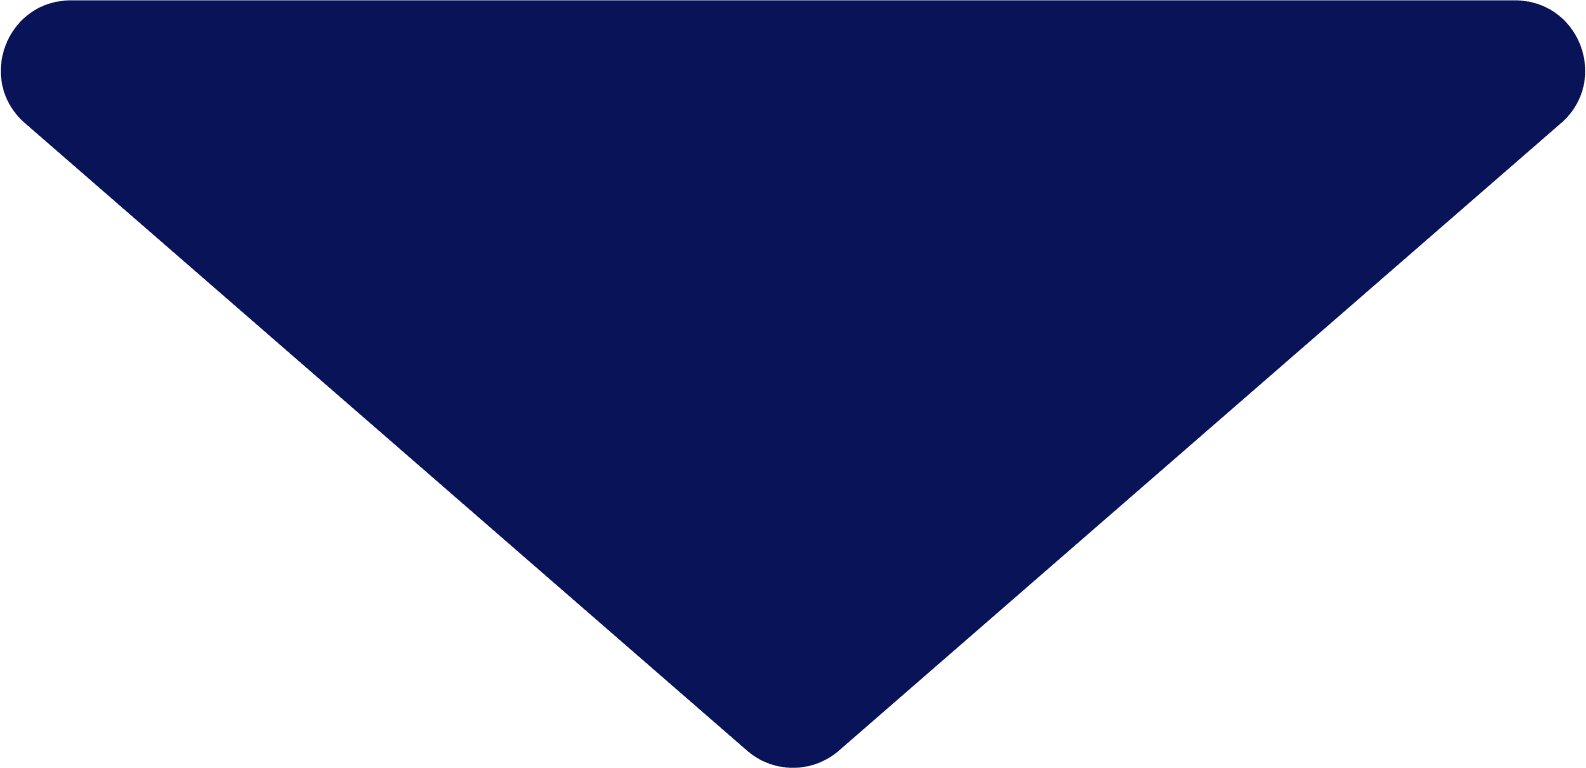
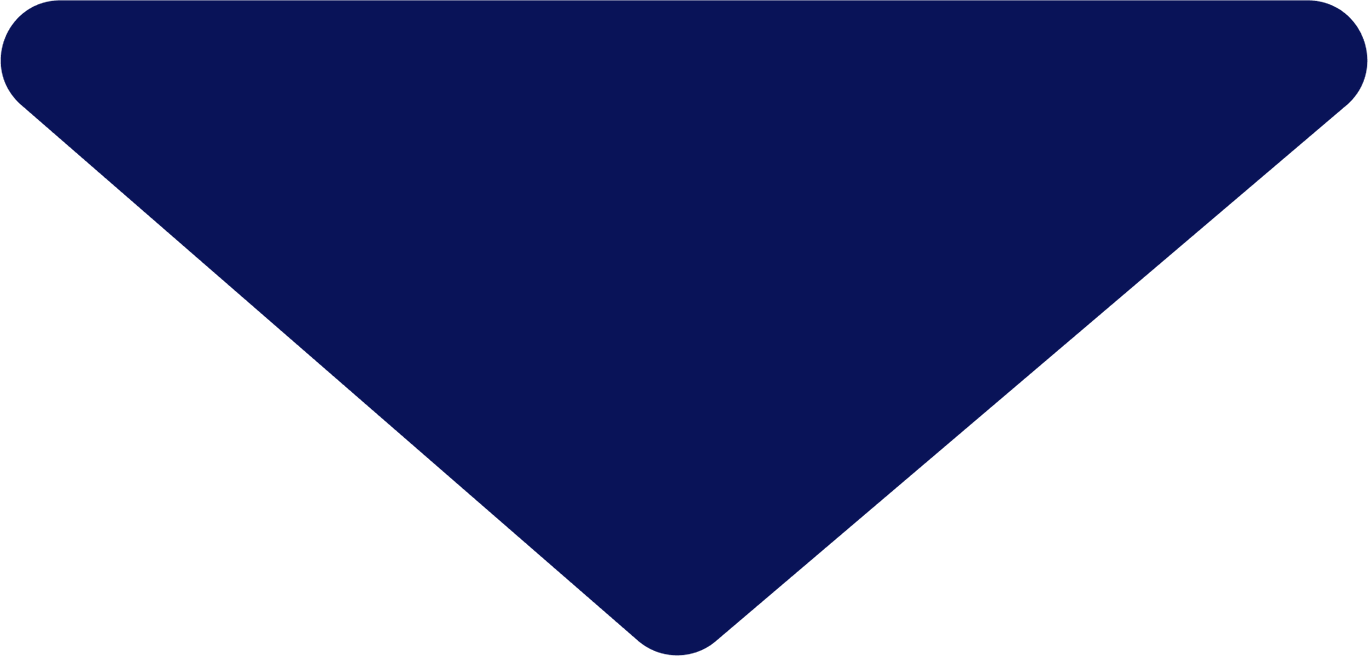
Polygon img and font fix

diff --git a/src/components/Polygon/Polygon.scss b/src/components/Polygon/Polygon.scss
@@ -1,4 +1,4 @@
-.polygon{
+.polygon {
     background-color:#F0F1F4;
     height: 768px;
     margin-bottom: 30px;
@@ -10,30 +10,38 @@
         margin-top: -75px;
         display: flex;
     }
-    &__block{
+    &__block {
         margin: 0 auto;
         padding: 50px 0;
         position: relative;
         z-index: 2;
         color: #FFFFFF;
-        width: 100%;
+        width: 50%;
         display: flex;
         flex-direction: column;
         align-items: center;
     }
-    &__article,&__text{
+    &__article, &__text {
         display: flex;
         flex-direction: column;
         text-align: center;
         line-height: 48px;
         font-size: 38px;
     }
-    &__article{
+    &__article {
         font-size: 48px;
         line-height: 58px;
         margin-bottom: 50px;
     }
-    &__text{
+    &__text {
         height: 70px;
     }
 }
+    @media (min-width:768px){
+            .polygon__img{
+                height: 68%;
+            }
+    }
+   
+
+

diff --git a/src/components/Polygon/Polygon.js b/src/components/Polygon/Polygon.js
@@ -7,7 +7,7 @@ const  Polygon = () =>
         <img className="polygon__img" src={polygon} alt="polygon" />
         <div className="polygon__block">
             <h1 className="polygon__article">Cassiopea</h1>
-            <p className="polygon__text"><span>Real-world data for your smart contracts</span><span>Don’t limit your DAPP.</span> </p>
+            <p className="polygon__text"><span></span>Real-world data for your smart contracts.<span></span> Don’t limit your DAPP.</p>
         </div>
     </div>
 

diff --git a/src/components/FooterMenu/FooterMenu.scss b/src/components/FooterMenu/FooterMenu.scss
@@ -2,16 +2,19 @@
     display: flex;
     justify-content: center;
     margin-bottom: 60px;
-    font-size: 18px;
-    line-height: 21px;
+  
     text-align: center;
     .column__article {
         display: block;
         margin-bottom: 20px;
+        font-size: 18px;
+        line-height: 21px;
     }
     .footer_column {
         margin: 0px 100px;
         z-index: 2;
+        font-size: 15px;
+        line-height: 18px;
 
     }
     a{

diff --git a/src/components/SubscribeForm/SubscribeForm.scss b/src/components/SubscribeForm/SubscribeForm.scss
@@ -6,7 +6,7 @@
         border-radius: 15px;
         height:25px;
         border: 0px;
-        width: 400px;
+        width: 200px;
         margin-right:-40px;
         z-index: 2;
 
@@ -21,8 +21,8 @@
 
     }
     [type="text"] {
-        font-size: 24px;
-        line-height: 29px;
+        font-size: 12px;
+        line-height: 14px;
         display: flex;
         border: 0px;
         margin-bottom: 60px;
